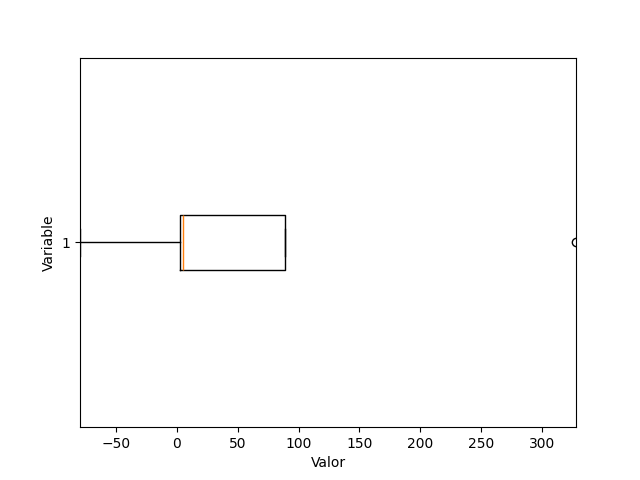
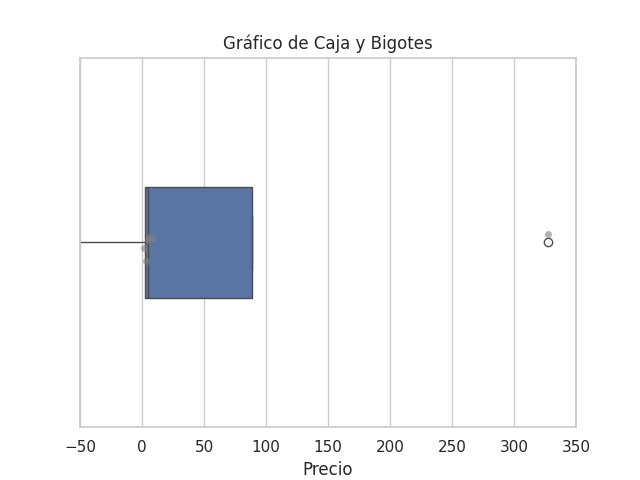
tester

diff --git a/projects/module02/ex02/mustache.py b/projects/module02/ex02/mustache.py
@@ -6,7 +6,7 @@ import matplotlib.pyplot as plt
 from sqlalchemy import create_engine, text
 from sqlalchemy.exc import SQLAlchemyError
 import matplotlib.dates as mdates
-# import seaborn as sns
+import seaborn as sns
 
 
 def connect():
@@ -102,7 +102,7 @@ def mustache_data(data):
 	)
 
 def generate_box_plot():
-	datos = {
+    datos = {
 		"count": 1286045.0,
 		"mean": 4.932943,
 		"std": 8.925811,
@@ -113,22 +113,27 @@ def generate_box_plot():
 		"max": 327.78
 	}
 
-	plt.boxplot(datos.values(), vert=False)
-	plt.xlim(-79.37, 327.78)
-	plt.xlabel("Valor")
+    # Configurar el estilo del gráfico (esto es opcional y puede ser modificado para coincidir con el estilo deseado)
+    sns.set(style="whitegrid")
+    
+    # Crear el gráfico de caja y bigotes con Seaborn, que automáticamente añadirá los puntos atípicos
+    ax = sns.boxplot(x=datos, width=0.3)
 
-	# Configurar los límites del eje Y
-	# plt.yticks(range(-79, 32, 50))
+    # Superponer un stripplot para mostrar todos los puntos de datos
+    sns.stripplot(x=datos, color='grey', alpha=0.6, jitter=True)
 
-	# Agregar etiquetas a los ejes
-	plt.xlabel("Valor")
-	plt.ylabel("Variable")
+    # Configurar títulos y etiquetas
+    ax.set_title('Gráfico de Caja y Bigotes')
+    ax.set_xlabel('Precio')
+    
+    # Configurar los límites del eje X si es necesario
+    ax.set_xlim(-50, 350)
 
 	# Guardar la imagen
-	plt.savefig("test.png")
+    plt.savefig("test.png")
 
 	# Cerrar la ventana del diagrama
-	plt.close()
+    plt.close()
 		
 
 def main():
